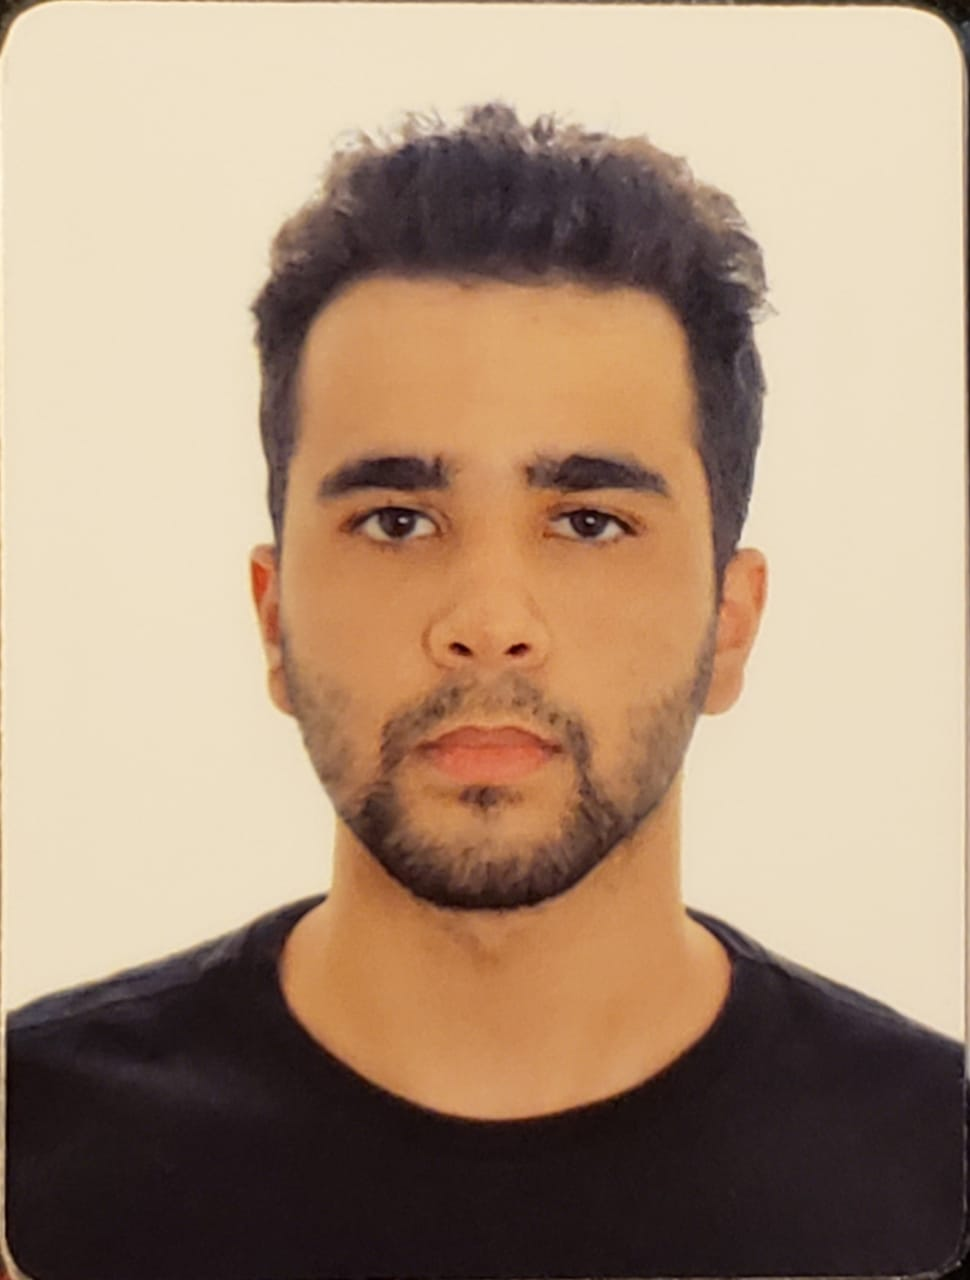
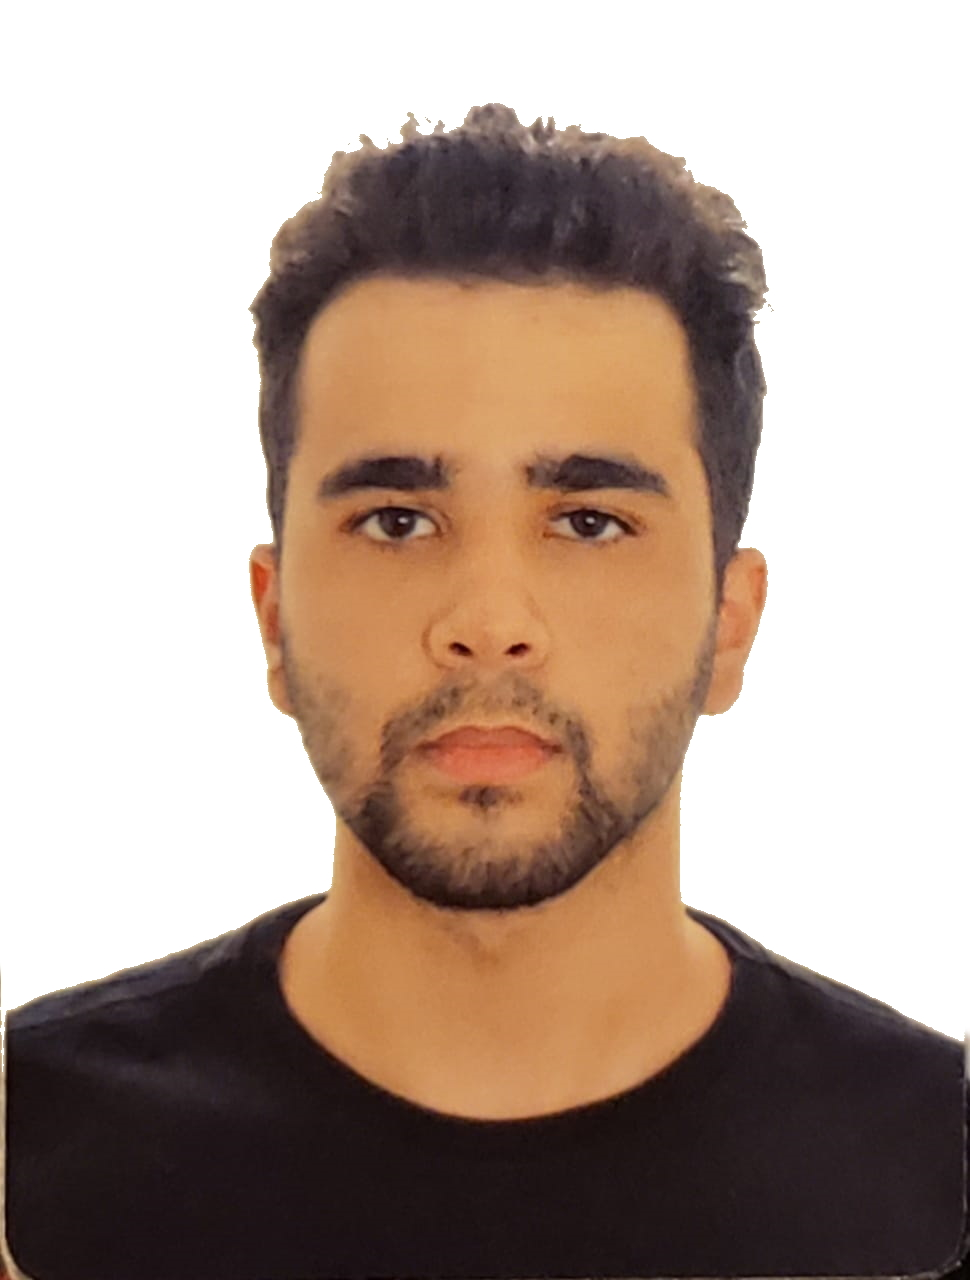
Atualização

diff --git a/index.html b/index.html
@@ -16,14 +16,14 @@
                     <div class="logo">
                         <a href="index.html">L</a>
                     </div>
-                    <div class="hambuger-btn outer-shadow hover-in-shadow">
+                    <!-- <div class="hambuger-btn outer-shadow hover-in-shadow">
                         <span></span>
-                    </div>
+                    </div> -->
                 </div>
             </div>
         </header>
         <!-- Menu -->
-        <nav class="nav-menu">
+        <!-- <nav class="nav-menu">
             <div class="close-nav-menu outer-shadow hover-in-shadow">&times;</div>
             <div class="nav-menu-inner">
                 <ul>
@@ -34,13 +34,22 @@
                     <li><a href="#contact" class="link-item outer-shadow hover-in-shadow">Contato</a></li>
                 </ul>
             </div>
-        </nav>
+        </nav> -->
 
         <div class="fade-out-effect">
         </div>
 
         <!-- Home -->
         <section class="home-section section active" id="home">
+            <!-- effect -->
+            <div class="effect-warp">
+                <div class="effect effect-1"></div>
+                <div class="effect effect-2"><div></div><div></div><div></div><div></div><div></div><div></div><div></div><div></div><div></div><div></div><div></div><div></div><div></div><div></div><div></div><div></div><div></div><div></div><div></div><div></div><div></div><div></div><div></div><div></div><div></div><div></div><div></div><div></div></div>
+                <div class="effect effect-3"></div>
+                <div class="effect effect-4"></div>
+                <div class="effect effect-5"><div></div><div></div><div></div><div></div><div></div><div></div><div></div><div></div><div></div><div></div></div>
+            </div>
+
             <div class="container">
                 <div class="row full-screen algin-items-center">
                     <div class="home-text">
@@ -83,8 +92,8 @@
                              de um trabalho produtivo e lucrativo de forma a trazer resultados positivos
                               para quem me contratar e vir a somar mais conhecimentos e
                                aprendizados a minha carreira profissional.</p>
-                        <a href="Curriculo_ReactNative-Lucas.pdf" class="btn-1 outer-shadow hover-in-shadow" target="_blank">Download CV</a>
-                        <a href="#contact" class="link-item btn-1 outer-shadow hover-in-shadow" target="_blank">Entre em Contato</a>
+                        <a href="Curriculo.pdf" class="btn-1 outer-shadow hover-in-shadow" target="_blank">Download CV</a>
+                        <a href="#contact" class="link-item btn-1 outer-shadow hover-in-shadow">Entre em Contato</a>
                     </div>
                 </div>
 
@@ -257,7 +266,7 @@
                     <div class="service-item">
                         <div class="service-item-inner outer-shadow">
                             <div class="icon inner-shadow">
-                                <i class="fas fa-laptop-code"></i>
+                                <i class="fas fa-palette"></i>
                             </div>
                             <h3>Web Design</h3>
                         </div>
@@ -266,9 +275,9 @@
                     <div class="service-item">
                         <div class="service-item-inner outer-shadow">
                             <div class="icon inner-shadow">
-                                <i class="fas fa-palette"></i>
+                                <i class="fas fa-laptop-code"></i>
                             </div>
-                            <h3>Design Gráfico</h3>
+                            <h3>Desenvolvimento Web</h3>
                         </div>
                     </div>
 
@@ -409,7 +418,6 @@
                             </div>
                             <div class="row">
                                 <div class="submit-btn">
-                                <input type="hidden" name="_next" value="#home">
                                 <button type="submit" class="btn-1 outer-shadow hover-in-shadow">Enviar</button>
                             </div>
                             </div>

diff --git a/js/main.js b/js/main.js
@@ -1,69 +1,3 @@
-/* Navigation */
-(() =>{
-
-    const hambugerBtn = document.querySelector(".hambuger-btn"),
-    navMenu = document.querySelector(".nav-menu"),
-    closeNavBtn = navMenu.querySelector(".close-nav-menu");
-
-    hambugerBtn.addEventListener("click", showNavMenu);
-    closeNavBtn.addEventListener("click", hideNavMenu);
-
-    function showNavMenu(){
-        navMenu.classList.add("open");
-        /* bodyScrollingToggle(); */
-    }
-    function hideNavMenu(){
-        navMenu.classList.remove("open");
-        fadeOutEffect();
-        /* bodyScrollingToggle(); */
-    }
-    function fadeOutEffect(){
-        document.querySelector(".fade-out-effect").classList.add("active");
-        setTimeout(() =>{
-            document.querySelector(".fade-out-effect").classList.remove("active");
-        },300)
-    }
-
-    document.addEventListener("click", (event) =>{
-        if(event.target.classList.contains('link-item')){
-            /* make sure event.target.hash */
-            if(event.target.hash !== ""){
-                event.preventDefault();
-                const hash = event.target.hash;
-                
-                document.querySelector(".section.active").classList.add("hide");
-                document.querySelector(".section.active").classList.remove("active");
-
-                document.querySelector(hash).classList.add("active");
-                document.querySelector(hash).classList.remove("hide");
-
-                navMenu.querySelector(".active").classList.add("outer-shadow","hover-in-shadow");
-                navMenu.querySelector(".active").classList.remove("active","hover-in-shadow");
-
-                if(navMenu.classList.contains("open")){
-                    event.target.classList.add("active","inner-shadow");
-                    event.target.classList.remove("outer-shadow","hover-in-shadow");
-
-                    hideNavMenu();
-                }
-                else{
-                    let navItems = navMenu.querySelectorAll(".link-item");
-                    navItems.forEach((item) =>{
-                        if(hash === item.hash){
-                            item.classList.add("active","inner-shadow");
-                            item.classList.remove("outer-shadow","hover-in-shadow");
-                        }
-                    })
-                    fadeOutEffect();
-                }
-
-                window.location.hash = hash;
-            }
-        }
-    })
-
-})();
-
 /* About section */
 
 (() =>{
@@ -114,14 +48,4 @@
         }
     })
 
-})();
-
-/* Hide all sections expept */
-(() =>{
-    const sections = document.querySelectorAll(".section");
-    sections.forEach((section) =>{
-        if(!sections.classList.contains("active")){
-            sections.classList.add("hide");
-        }
-    })
 })();

diff --git a/css/style.css b/css/style.css
@@ -135,9 +135,100 @@ img{
         transform: translateY(0px);
     }
 }
-.section.hide{
+/* .section.hide{
     display: none;
+} */
+
+.effect-warp .effect{
+    position: absolute;
+    z-index: -1;
 }
+.effect-1{
+    width: 45px;
+    height: 30px;
+    border: 4px solid #8a49ff;
+    right: 10%;
+    bottom: 10%;
+    animation: spin 10s linear infinite;
+}
+.effect-2{
+    left: 3%;
+    bottom: 20%;
+    width: 40px;
+    display: flex;
+    flex-wrap: wrap;
+    justify-content: space-between;
+    animation: topBounce 3s ease-in-out infinite;
+}
+.effect-2 div{
+    height: 3px;
+    width: 3px;
+    background-color: #ff9c09;
+    margin: 0 3px 8px;
+}
+.effect-3{
+    height: 180px;
+    width: 180px;
+    border: 25px solid var(--skin-color);
+    border-radius: 50%;
+    left: 50%;
+    top: -120px;
+    animation: leftBounce 3s ease-in-out infinite;
+}
+.effect-4{
+    border-top: 30px solid transparent;
+    border-left: 30px solid #06d79c;
+    left: 30%;
+    top: 20%;
+}
+.effect-4::before{
+    content: '';
+    border-top: 30px solid transparent;
+    border-left: 30px solid #06d79c;
+    position: absolute;
+    opacity: 0.5;
+    left: -35px;
+    top: -25px;
+}
+.effect-5{
+    height: 50px;
+    width: 50px;
+    right: 5%;
+    top: 30%;
+    display: flex;
+    justify-content: space-between;
+    border-radius: 50%;
+    overflow: hidden;
+}
+.effect-5 div{
+    width: 1px;
+    background-color: #4dd0e1;
+}
+@keyframes spin{
+    0%{
+        transform: rotate(0deg);
+    }
+    100%{
+        transform: rotate(360deg);
+    }
+}
+@keyframes topBounce{
+    0%,100%{
+        transform: translateY(0);
+    }
+    50%{
+        transform: translateY(25px);
+    }
+}
+@keyframes leftBounce{
+    0%,100%{
+        transform: translateX();
+    }
+    50%{
+        transform: translateX(25px);
+    }
+}
+
 
 /* header */
 .header {
@@ -198,7 +289,7 @@ header .hambuger-btn span::after{
 }
 
 /* menu */
-.nav-menu{
+/* .nav-menu{
     position: fixed;
     background-color: var(--bg-black-50);
     padding: 0 15px;
@@ -290,7 +381,7 @@ header .hambuger-btn span::after{
 }
 .nav-menu ul li a:after{
     border-radius: 30px;
-}
+} */
 
 /* home section  */
 .home-section{
@@ -329,16 +420,18 @@ header .hambuger-btn span::after{
     margin-top: 30px;
 }
 .home-section .home-img .img-box{
-    max-width: 450px;
+    width: 480px;
+    height: 480px;
     display: block;
     margin: auto;
     border-radius: 50%;
-    padding: 15px;
+    padding: 17px;
 }
 .home-section .home-img .img-box img{
-    width: 100%;
+    width: 450px;
+    height: 450px;
     border-radius: 50%;
-    border: 10px solid transparent;
+    border: 5px solid transparent;
 }
 
 /* About section */
